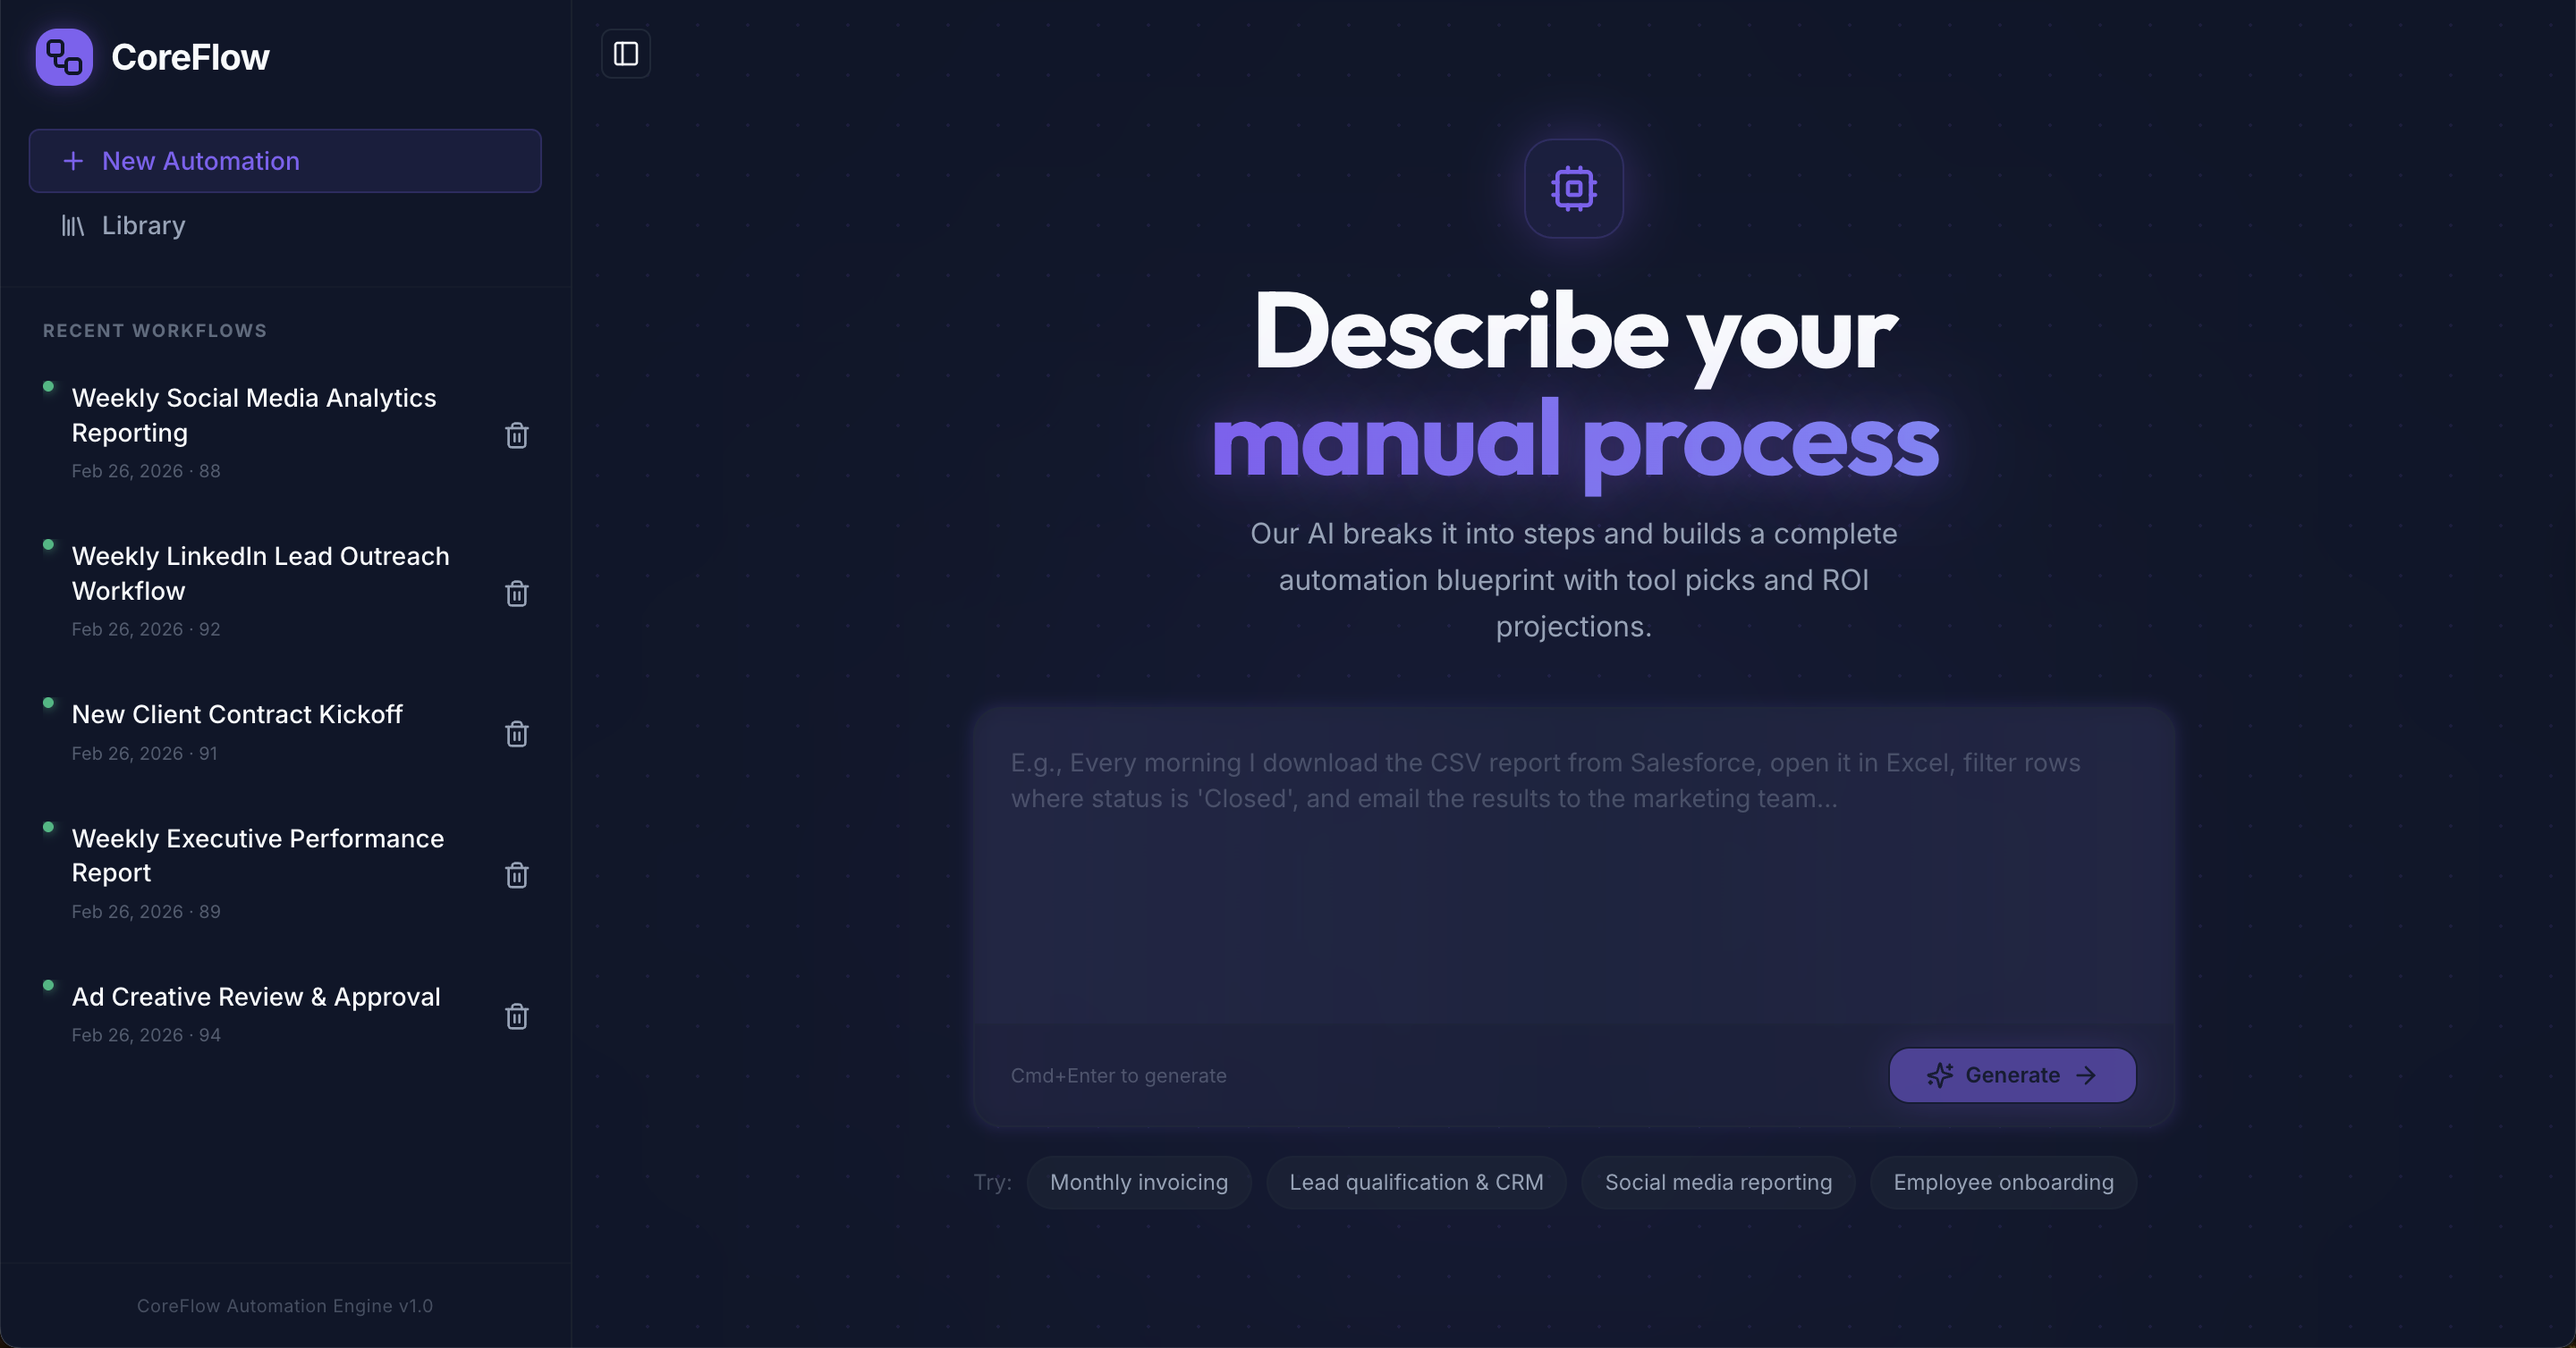
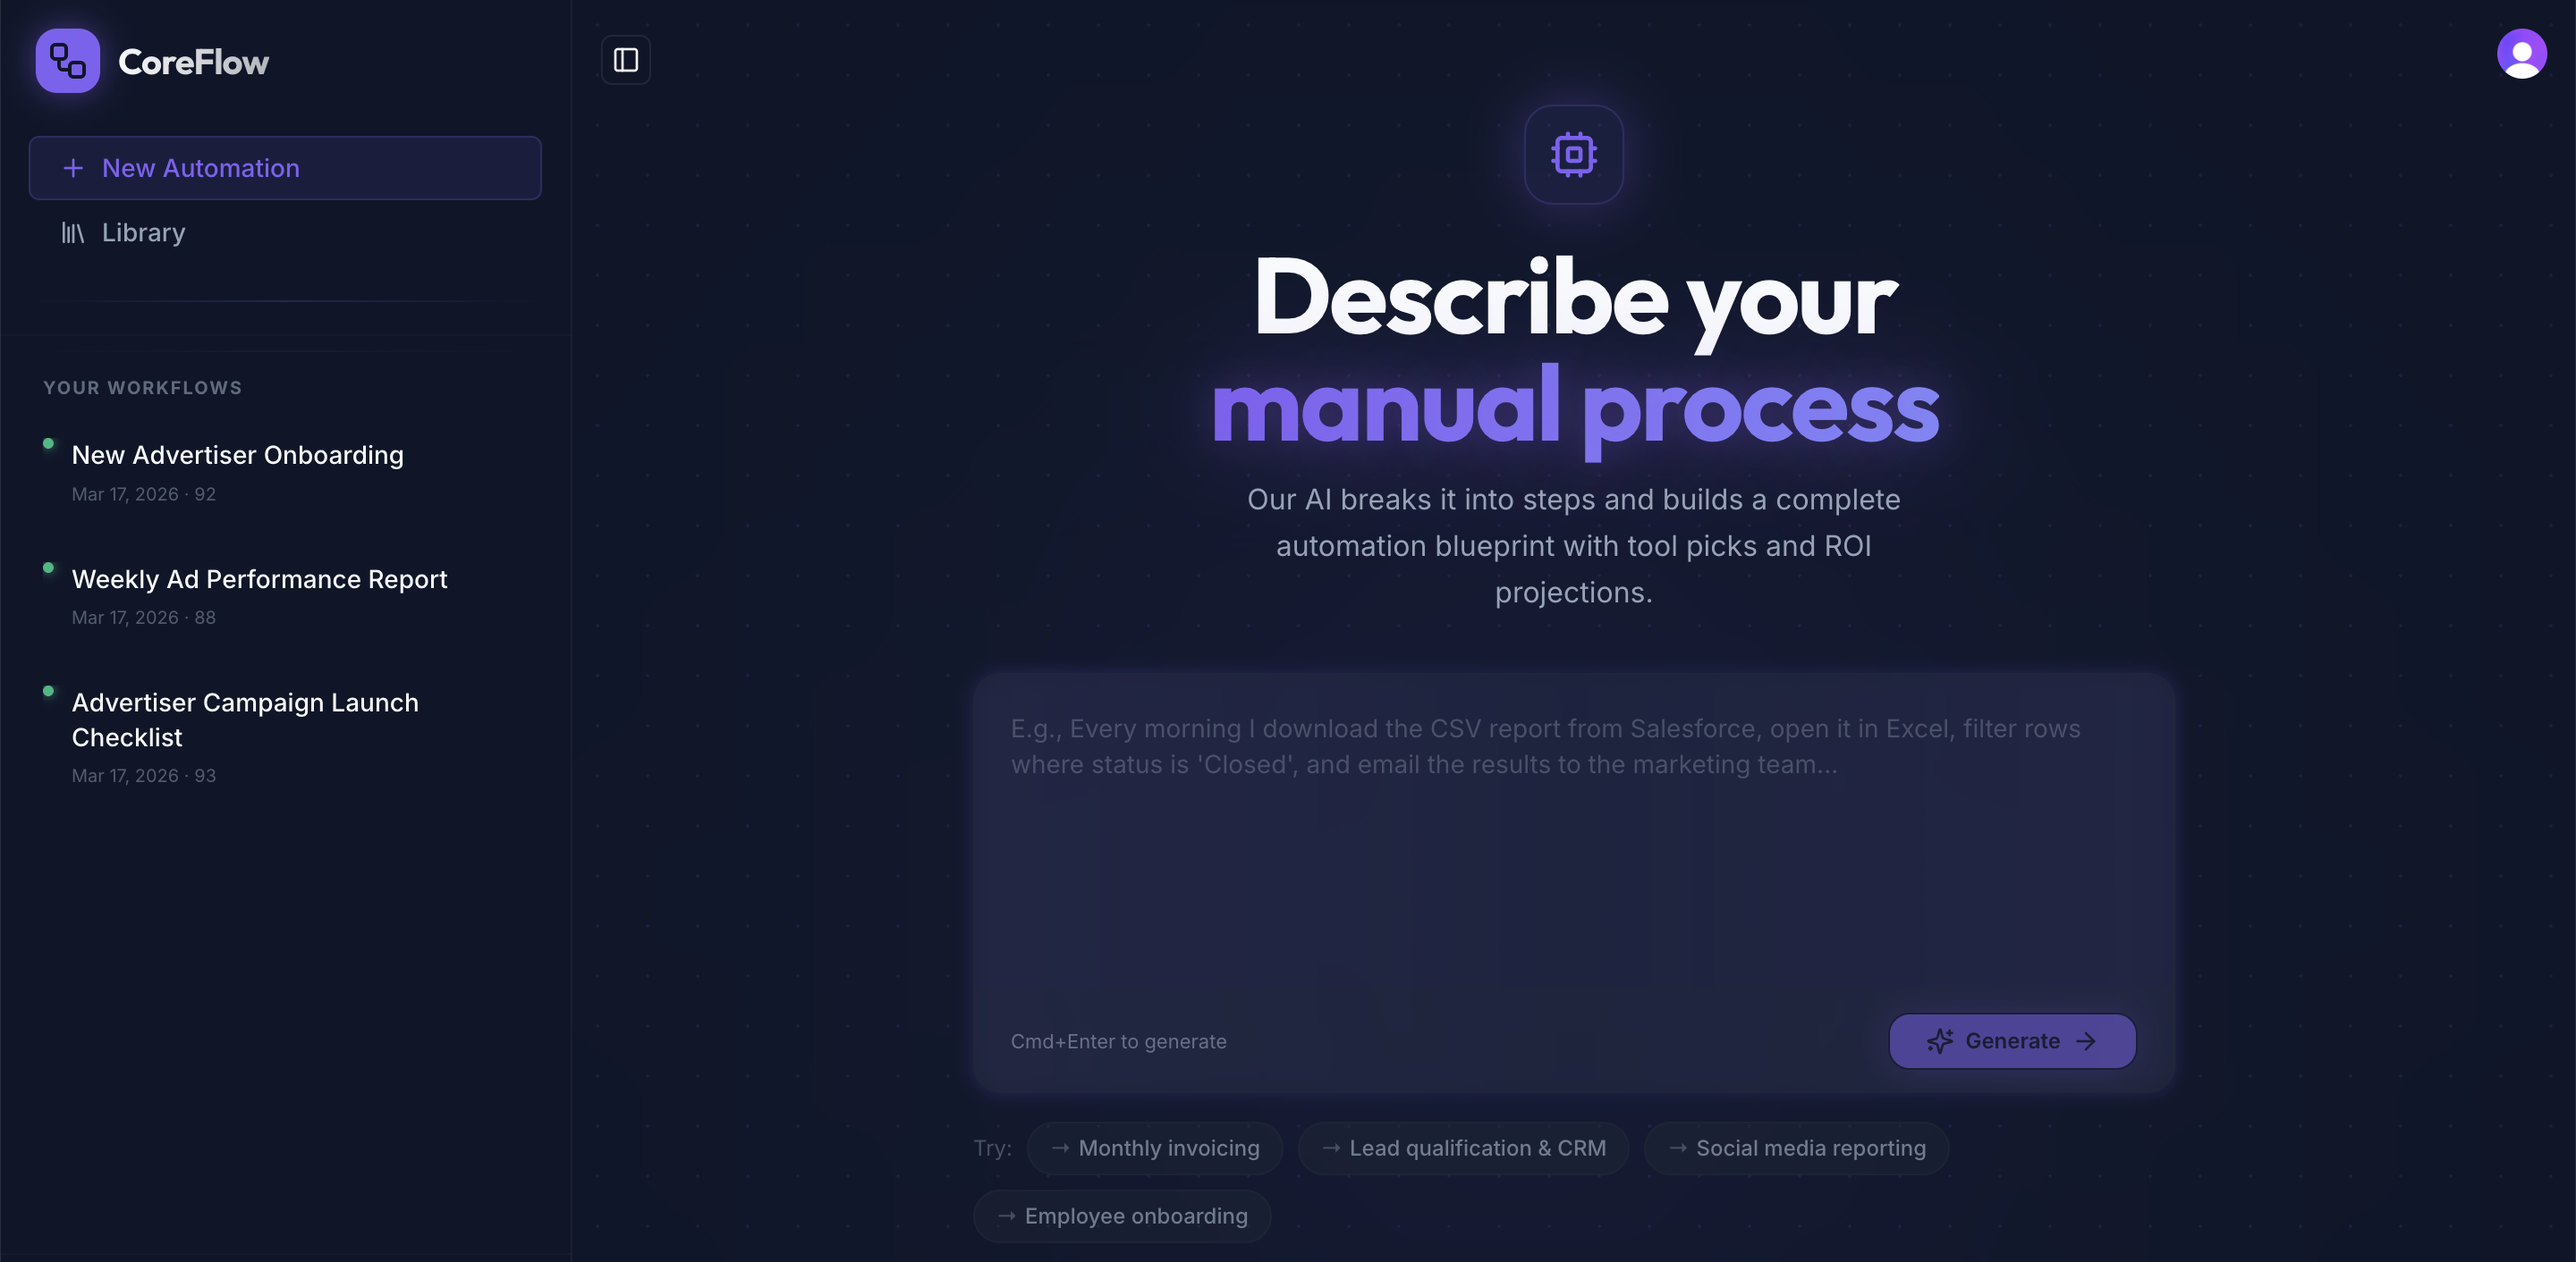
docs: add Clerk setup to README and refresh screenshot
Made-with: Cursor

diff --git a/README.md b/README.md
@@ -59,6 +59,7 @@ CoreFlow is live on Railway:
 
 - Node.js 20+
 - PostgreSQL instance (local or hosted, e.g. Neon)
+- [Clerk](https://clerk.com) account (free tier works) — create an app and grab the publishable key
 
 ### Local setup
 
@@ -94,12 +95,13 @@ By default the app runs on the port specified by `PORT` (or `5000` if unset).
 
 All configuration is provided via `.env` (never commit this file):
 
-| Variable          | Required | Description                                   |
-|-------------------|----------|-----------------------------------------------|
-| `DATABASE_URL`    | Yes      | PostgreSQL connection string                  |
-| `OPENAI_API_KEY`  | Yes      | OpenAI API key used for workflow generation   |
-| `OPENAI_BASE_URL` | No       | Custom OpenAI base URL (defaults to api.openai.com) |
-| `PORT`            | No       | Server port (default `5000`)                  |
+| Variable                     | Required | Description                                          |
+|------------------------------|----------|------------------------------------------------------|
+| `DATABASE_URL`               | Yes      | PostgreSQL connection string                         |
+| `OPENAI_API_KEY`             | Yes      | OpenAI API key used for workflow generation          |
+| `VITE_CLERK_PUBLISHABLE_KEY` | Yes      | Clerk publishable key (from Clerk dashboard)         |
+| `OPENAI_BASE_URL`            | No       | Custom OpenAI base URL (defaults to api.openai.com)  |
+| `PORT`                       | No       | Server port (default `5000`)                         |
 
 See `.env.example` for a concrete template.
 
